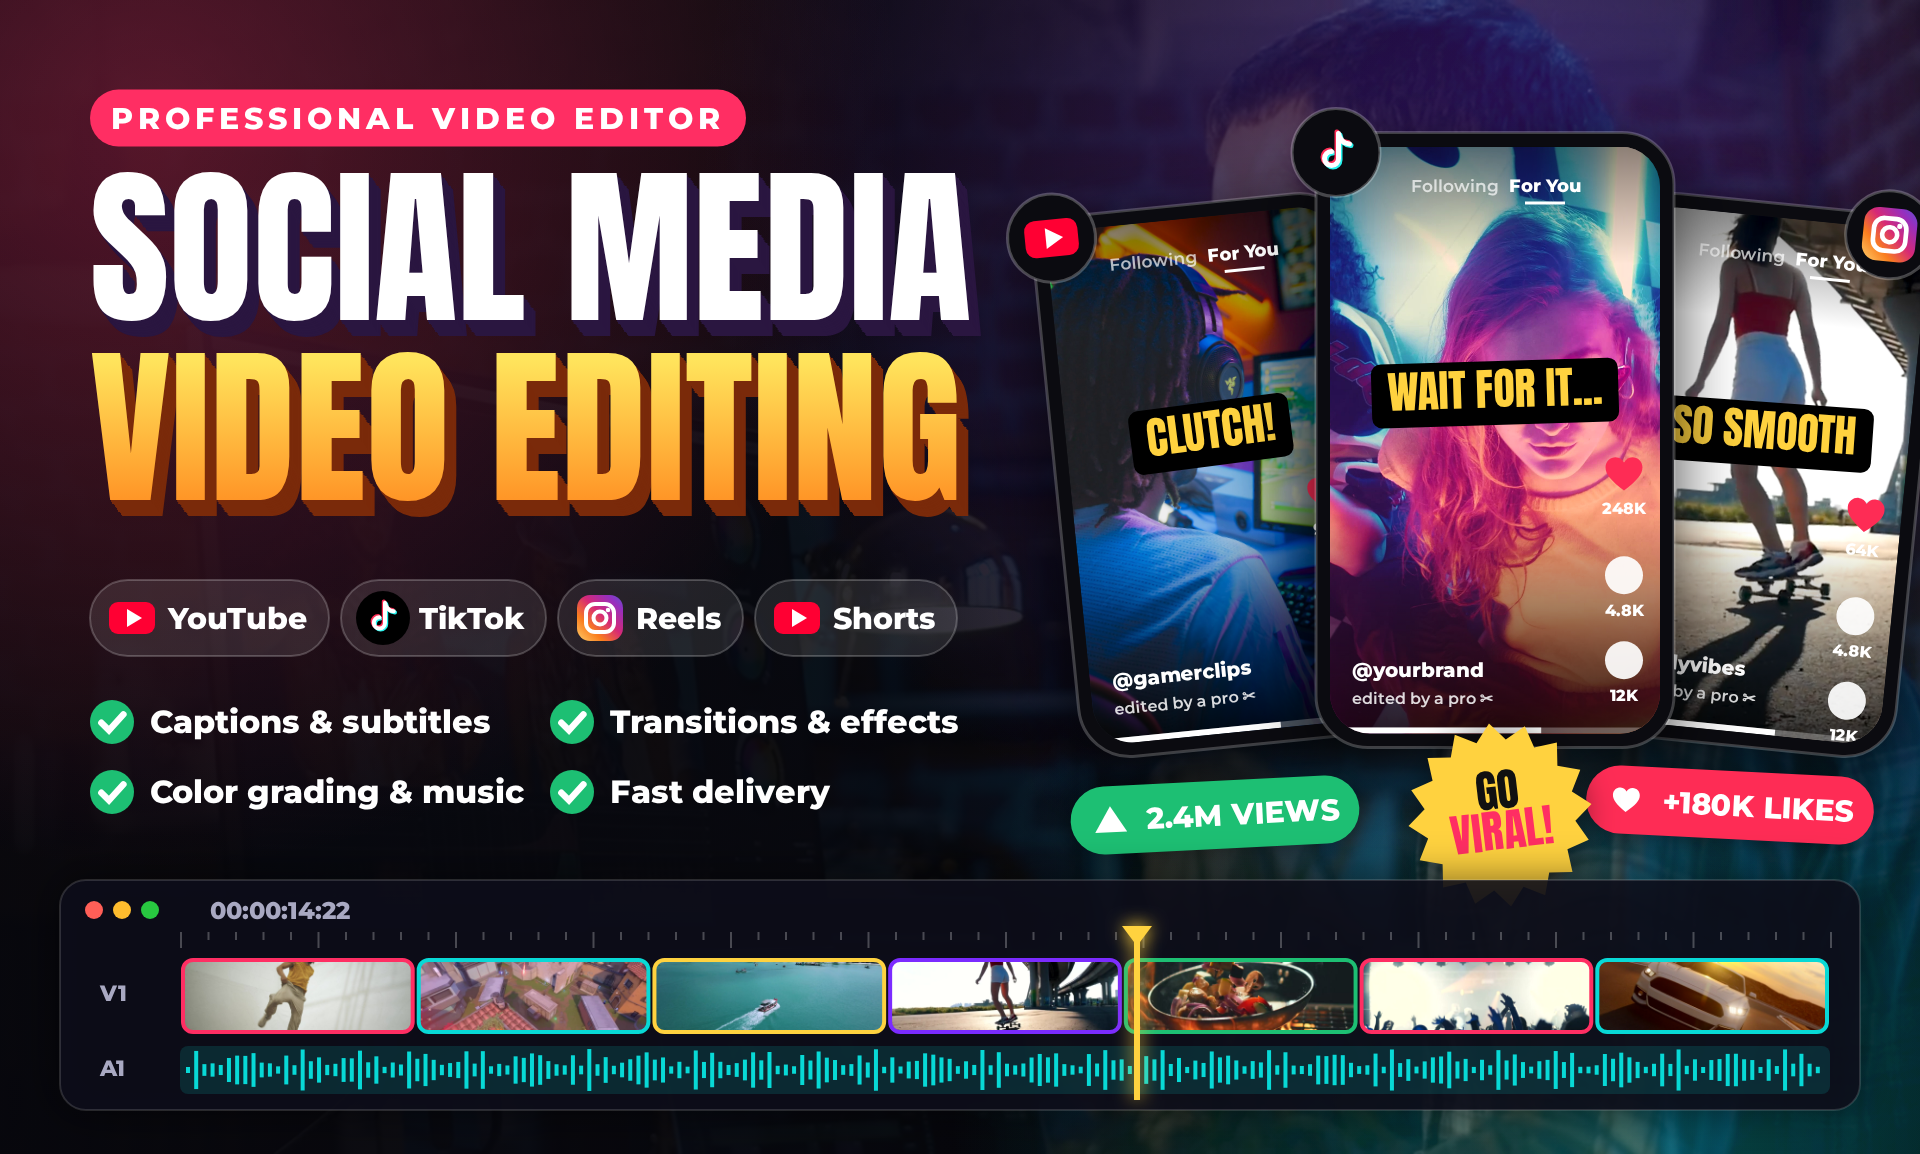
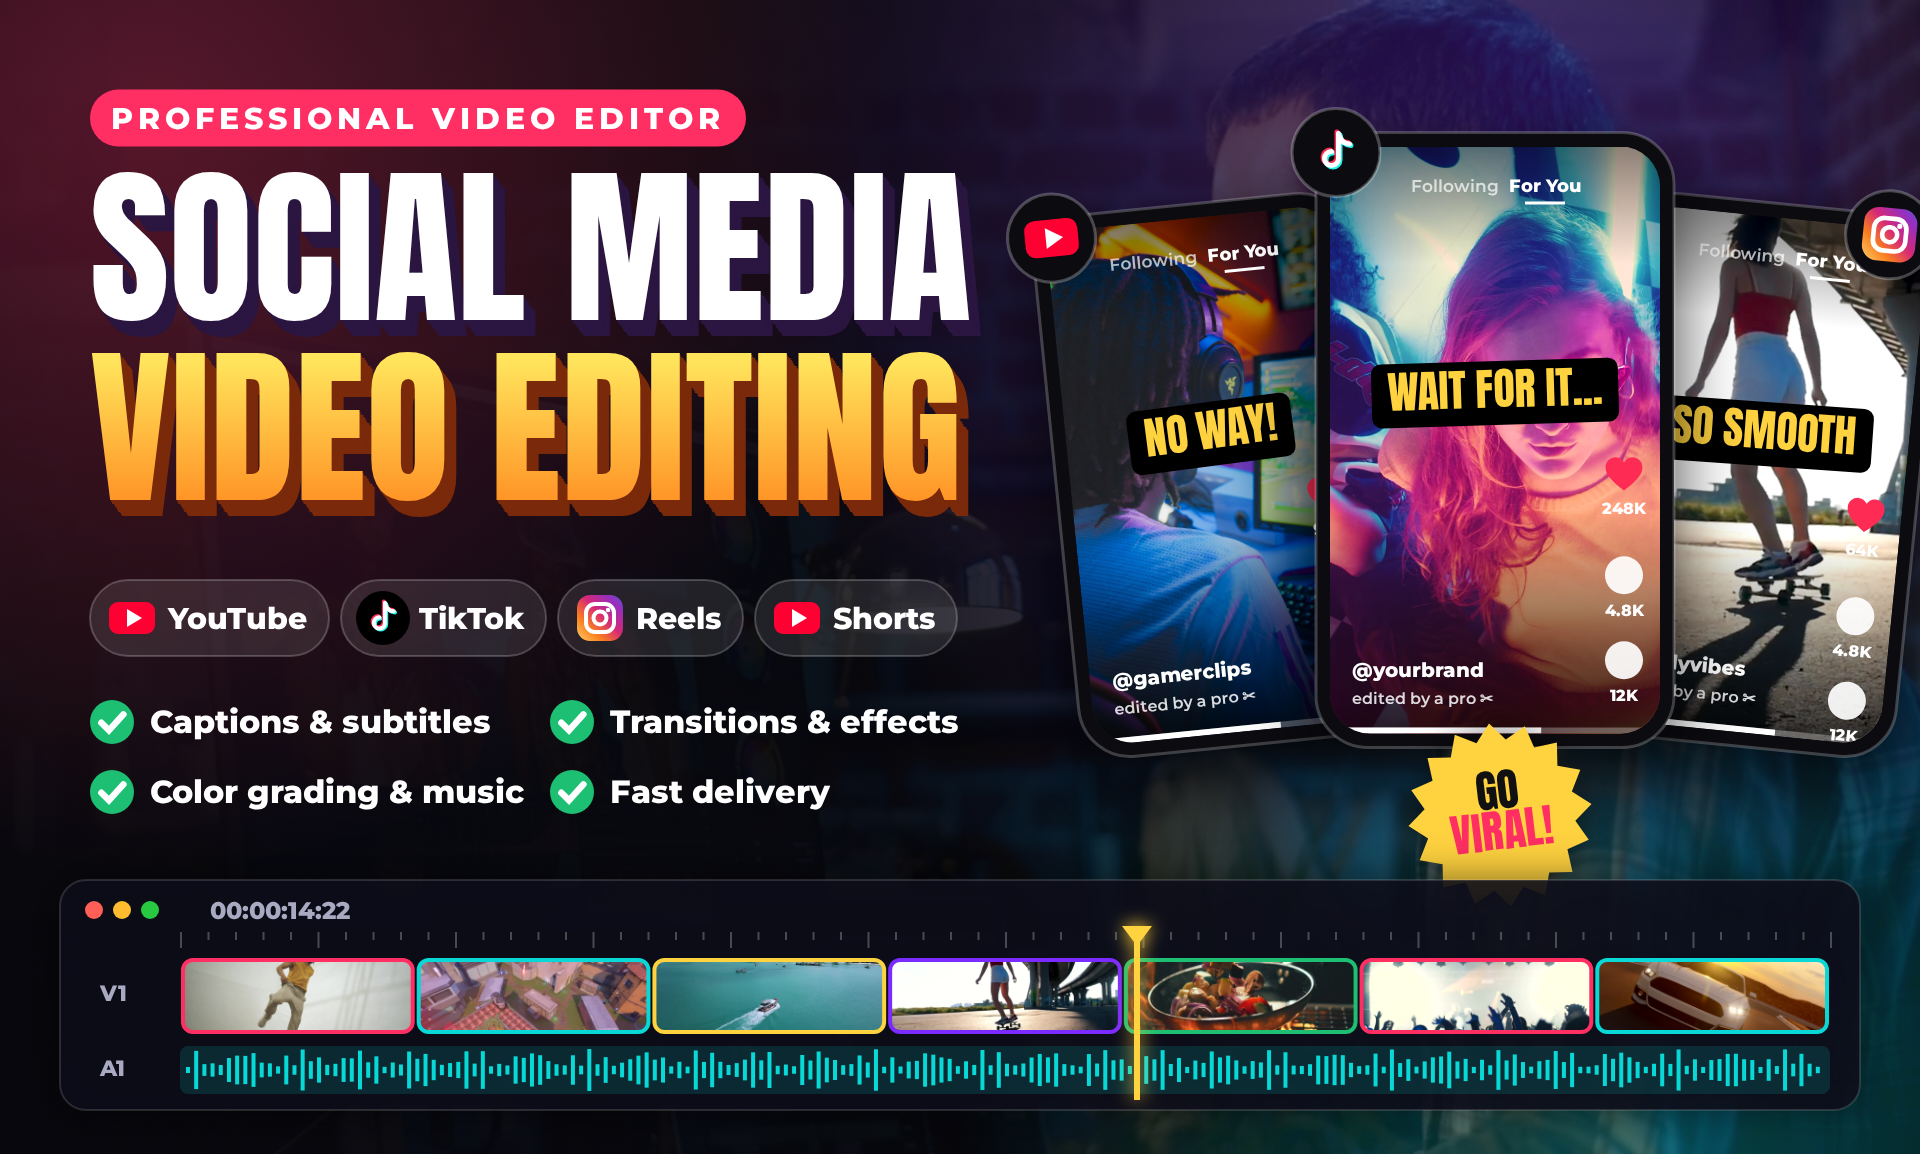
Thumbnail: remove stat pills, new caption on gaming phone
Claude-Session: https://claude.ai/code/session_01QJKurB1pqt4FofLm8XLykV

Changed region(s): [[0.5312, 0.6551, 0.7188, 0.7487], [0.8125, 0.6551, 1.0, 0.7487], [0.5938, 0.3432, 0.6875, 0.4055]]

diff --git a/promo-video/thumbnail.html b/promo-video/thumbnail.html
@@ -90,7 +90,7 @@ function drawThumb() {
     platformIcon(c, icon, bx, -h / 2 + 6, icon === 'tiktok' ? 50 : 58);
     c.restore();
   };
-  phoneShot(IMG.gamer, 700, 1215, 475, 290, 516, -0.1, 'youtube', 'CLUTCH!', '98K', '@gamerclips');
+  phoneShot(IMG.gamer, 700, 1215, 475, 290, 516, -0.1, 'youtube', 'NO WAY!', '98K', '@gamerclips');
   phoneShot(IMG.skate, 560, 1760, 475, 290, 516, 0.1, 'instagram', 'SO SMOOTH', '64K', '@dailyvibes', true);
   phoneShot(IMG.party, 700, 1495, 440, 330, 587, 0, 'tiktok', 'WAIT FOR IT...', '248K', '@yourbrand');
   // floating stats
@@ -101,8 +101,6 @@ function drawThumb() {
     draw(-w / 2 + 40); text(c, label, -w / 2 + 76, 2, { font: 'Mont', weight: 800, size: 30, align: 'left', color: '#fff' });
     c.restore();
   };
-  pill(1215, 815, -0.05, (x) => { c.fillStyle = '#fff'; c.beginPath(); c.moveTo(x - 16, 12); c.lineTo(x, -14); c.lineTo(x + 16, 12); c.fill(); }, '2.4M VIEWS', C.green);
-  pill(1730, 805, 0.05, (x) => { c.save(); c.translate(x - 16, -15); c.scale(0.32, 0.32); c.fillStyle = '#fff'; c.fill(ICON.heart); c.restore(); }, '+180K LIKES', '#fe2c55');
   // "GO VIRAL" starburst sticker
   c.save(); c.translate(1500, 815); c.rotate(-0.12); c.scale(0.72, 0.72);
   c.fillStyle = C.yellow; c.shadowColor = 'rgba(0,0,0,.5)'; c.shadowBlur = 30;
